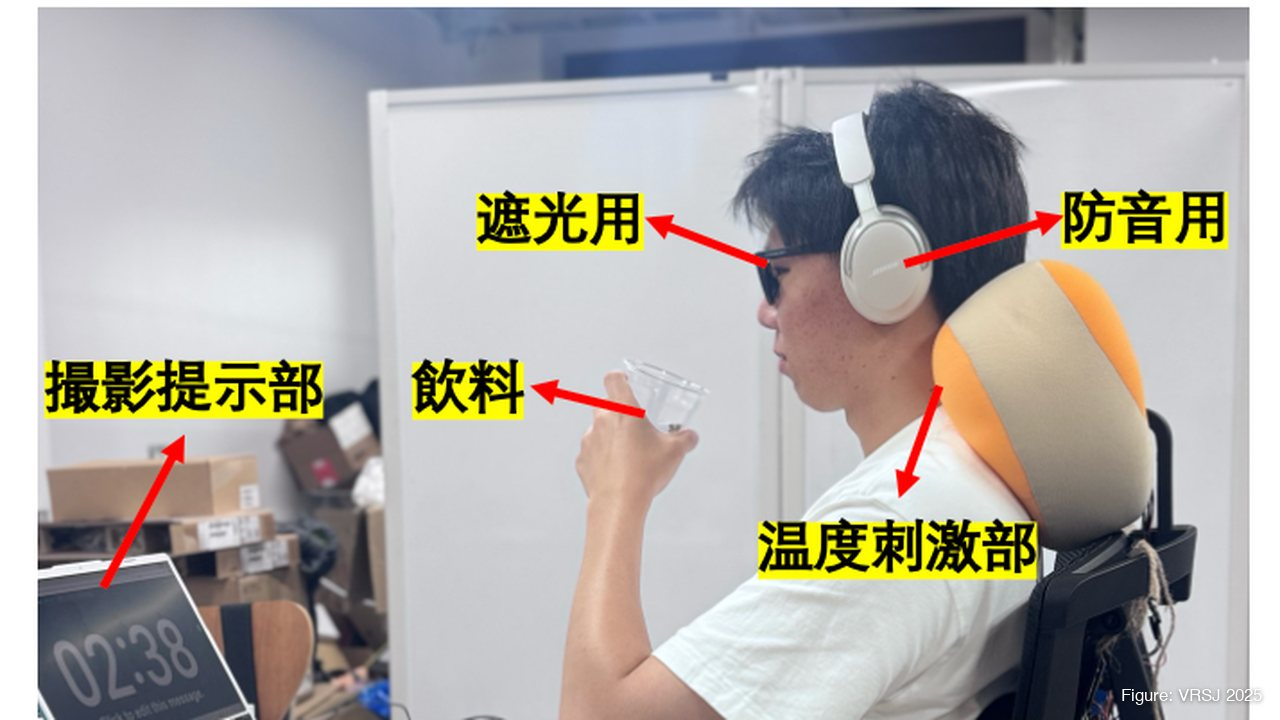
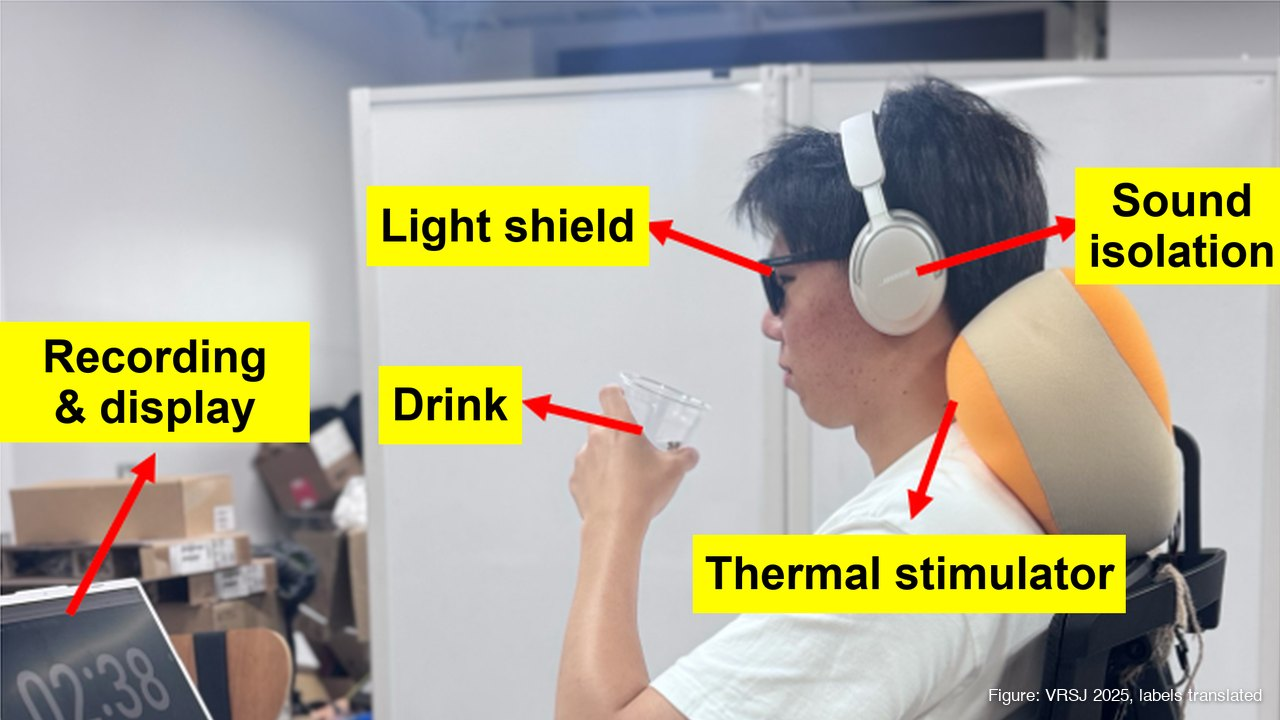
Project archive: Spectral Space cover from the participants' in-experiment photos (Fig. 7); Drinking setup photo with English labels
Spectral Space: 2x2 of the four participant photographs from Fig. 7 (CC BY 4.0) instead of Fig. 1 on white.
Thermal Feedback for Drinking: Fig. 2 labels translated (light shield, sound isolation, drink,
thermal stimulator, recording & display), used for the cover and the detail figure.
projects.js version bumped to 20261126c; changed images carry ?v=20261126c.

diff --git a/projects/projects.js b/projects/projects.js
@@ -611,7 +611,7 @@ const PROJECTS = [
       "The framework offers an alternative to discrete portals and scene switches for designing layered, subjective virtual spaces."
     ],
     "video": "../assets/projects/spectral-space.mp4",
-    "image": "../assets/projects/spectral-space.jpg",
+    "image": "../assets/projects/spectral-space.jpg?v=20261126c",
     "alt": "Spectral Space — original research illustration",
     "source": "Cover and figure from the paper (Augmented Humans 2026, CC BY 4.0) · Explainer animation based on the original publication · Music: “Wholesome” by Kevin MacLeod (incompetech.com), CC BY 4.0",
     "paperFigures": [
@@ -874,15 +874,15 @@ const PROJECTS = [
       "The Japanese report presents the prototype and stimulus design for studying impressions such as warmth, flavor and relaxation; evaluation of perceptual effects is ongoing."
     ],
     "video": "../assets/projects/drinking-thermal.mp4",
-    "image": "../assets/projects/drinking-thermal.jpg",
+    "image": "../assets/projects/drinking-thermal.jpg?v=20261126c",
     "detailImage": "../assets/projects/drinking-thermal-detail.jpg",
     "alt": "Original system diagram showing drinking-triggered thermal feedback",
     "source": "Cover and figures from the original Japanese paper (VRSJ Annual Conference 2025) · Explainer animation based on the original Japanese publication; English description translated from the Japanese source · Music: “Life of Riley” by Kevin MacLeod (incompetech.com), CC BY 4.0",
     "paperFigures": [
       {"src": "../assets/projects/drinking-thermal-paper-1.jpg", "w": 1400, "h": 720, "alt": "Fig. 1 of the paper: drinking detection, thermal stimulus and change of drink impression"},
-      {"src": "../assets/projects/drinking-thermal-paper-2.jpg", "w": 928, "h": 1104, "alt": "Fig. 2 of the paper: a participant drinking with the heating unit at the neck, camera and headphones"}
+      {"src": "../assets/projects/drinking-thermal-paper-2.jpg?v=20261126c", "w": 1013, "h": 1200, "alt": "Fig. 2 of the paper (labels translated): a participant drinking with the thermal stimulator at the neck, light-shield glasses, sound-isolating headphones and a recording and display laptop"}
     ],
-    "paperCaption": "From the paper: Fig. 1, proposed system · Fig. 2, setup (labels in Japanese). VRSJ Annual Conference 2025.",
+    "paperCaption": "From the paper: Fig. 1, proposed system · Fig. 2, setup (labels translated into English). VRSJ Annual Conference 2025.",
     "links": [
       {
         "label": "Paper (Japanese)",

diff --git a/projects/index.html b/projects/index.html
@@ -64,7 +64,7 @@
       <div id="detail-links" class="detail-links"></div>
     </div>
   </dialog>
-  <script src="projects.js?v=20261126b"></script>
+  <script src="projects.js?v=20261126c"></script>
   <script src="module.js?v=20261126b"></script>
 </body>
 </html>
